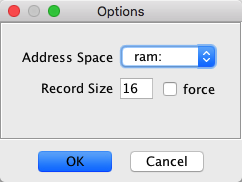
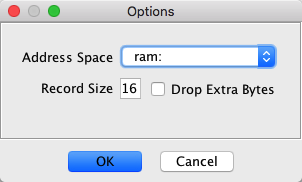
GT-2703: changed "force" option to "drop extra bytes" in intel hex options

diff --git a/Ghidra/Features/Base/src/main/help/help/topics/ExporterPlugin/exporter.htm b/Ghidra/Features/Base/src/main/help/help/topics/ExporterPlugin/exporter.htm
@@ -308,7 +308,7 @@
             address space.</LI>
             <LI><B>Record Size</B> - Specifies the size (in bytes) of each record in the 
             output file. The default 16.</LI>
-            <LI><B>Force</B> - If checked, this will ensure that <b>only</b> records matching
+            <LI><B>Drop Extra Bytes</B> - If checked, this will ensure that <b>only</b> records matching
             the record size will be output. eg: if you set the record size to 16 but there are 
             18 bytes selected, you will see only one line of 16 bytes in the output; the remaining 
             2 bytes will be dropped.</LI>

diff --git a/Ghidra/Features/Base/src/main/java/ghidra/app/util/exporter/IntelHexExporter.java b/Ghidra/Features/Base/src/main/java/ghidra/app/util/exporter/IntelHexExporter.java
@@ -39,8 +39,8 @@ import ghidra.util.task.TaskMonitor;
  * <p>
  * The output defaults to lines of 16-bytes but this is configurable using the
  * {@link #recordSizeOption} attribute. This allows users to select any record size
- * up to the max of 0xFF. Users may also choose to <code>force</code> a record size for every line
- * of output, which will only print out lines that match the max record size; any other 
+ * up to the max of 0xFF. Users may also choose to <code>Drop Extra Bytes</code>, which will
+ * cause only lines that match the max record size to be printed; any other 
  * bytes will be dropped. If this option is not set, every byte will be represented in the output.
  */
 public class IntelHexExporter extends Exporter {
@@ -100,8 +100,8 @@ public class IntelHexExporter extends Exporter {
 
 	/**
 	 * Option for exporting Intel Hex records that allows users to specify a record size for the
-	 * output. Users may also optionally specify a <code>force</code> option that will only output
-	 * lines that match this maximum size.
+	 * output. Users may also optionally select the <code>Drop Extra Bytes</code> option that 
+	 * will cause only those records that match the maximum size to be output to the file.
 	 * 
 	 * @see RecordSizeComponent
 	 */
@@ -140,8 +140,8 @@ public class IntelHexExporter extends Exporter {
 			return Integer.class;
 		}
 
-		public boolean getForce() {
-			return comp.getForce();
+		public boolean dropExtraBytes() {
+			return comp.dropExtraBytes();
 		}
 	}
 
@@ -151,28 +151,28 @@ public class IntelHexExporter extends Exporter {
 	 * <ul>
 	 * <li><code>input</code>: a {@link HintTextField} for entering numeric digits; these 
 	 * represent the record size for each line of output</li>
-	 * <li>forceCb: a {@link JCheckBox} for specifying the <code>force</code> setting; this
-	 * enforces that every line in the output matches the specified record size</li>
+	 * <li>dropCb: a {@link JCheckBox} for specifying a setting that enforces that every line in 
+	 * the output matches the specified record size</li>
 	 * </ul>
 	 * 
-	 * Note: If the <code>force</code> option is set, any bytes that are left over after outputting
-	 * all lines that match the record size will be dropped on the floor.
+	 * Note: If the <code>Drop Extra Bytes</code> option is set, any bytes that are left over 
+	 * after outputting all lines that match the record size will be omitted from the output.
 	 */
 	private class RecordSizeComponent extends JPanel {
 
 		private HintTextField input;
-		private JCheckBox forceCb;
+		private JCheckBox dropCb;
 
 		public RecordSizeComponent(int recordSize) {
 			setLayout(new BorderLayout());
 			
 			input = new HintTextField(String.valueOf(recordSize), false, new BoundedIntegerVerifier());
-			forceCb = new JCheckBox("force");
+			dropCb = new JCheckBox("Drop Extra Bytes");
 			
 			input.setText(String.valueOf(recordSize));
 			
 			add(input, BorderLayout.CENTER);
-			add(forceCb, BorderLayout.EAST);
+			add(dropCb, BorderLayout.EAST);
 		}
 
 		public int getValue() {
@@ -184,8 +184,8 @@ public class IntelHexExporter extends Exporter {
 			return Integer.valueOf(val);
 		}
 
-		public boolean getForce() {
-			return forceCb.isSelected();
+		public boolean dropExtraBytes() {
+			return dropCb.isSelected();
 		}
 	}
 
@@ -276,9 +276,9 @@ public class IntelHexExporter extends Exporter {
 			AddressSetView addrSetView, TaskMonitor monitor) throws MemoryAccessException {
 
 		int size = (int) recordSizeOption.getValue();
-		boolean forceSize = recordSizeOption.getForce();
+		boolean dropBytes = recordSizeOption.dropExtraBytes();
 
-		IntelHexRecordWriter writer = new IntelHexRecordWriter(size, forceSize);
+		IntelHexRecordWriter writer = new IntelHexRecordWriter(size, dropBytes);
 
 		AddressSet set = new AddressSet(addrSetView);
 

diff --git a/Ghidra/Features/Base/src/main/java/ghidra/app/util/opinion/IntelHexRecordWriter.java b/Ghidra/Features/Base/src/main/java/ghidra/app/util/opinion/IntelHexRecordWriter.java
@@ -22,7 +22,7 @@ import ghidra.program.model.address.*;
 public class IntelHexRecordWriter {
 
     private final int maxBytesPerLine;
-	private final boolean forceSize;
+	private final boolean dropExtraBytes;
 
     private Address startAddress = null;
     private Long oldSegment = null;
@@ -36,15 +36,15 @@ public class IntelHexRecordWriter {
 	 * Constructor
 	 * 
 	 * @param maxBytesPerLine the maximum number of bytes to write per line in the hex output
-	 * @param forceSize if true, only lines matching {@link #maxBytesPerLine} will be output; 
+	 * @param dropExtraBytes if true, only lines matching {@link #maxBytesPerLine} will be output; 
 	 * remaining bytes will be left out
 	 */
-	public IntelHexRecordWriter(int maxBytesPerLine, boolean forceSize) {
+	public IntelHexRecordWriter(int maxBytesPerLine, boolean dropExtraBytes) {
         if (maxBytesPerLine > IntelHexRecord.MAX_RECORD_LENGTH) {
             throw new IllegalArgumentException("maxBytesPerLine > IntelHexRecord.MAX_RECORD_LENGTH");
         }
         this.maxBytesPerLine = maxBytesPerLine;
-		this.forceSize = forceSize;
+		this.dropExtraBytes = dropExtraBytes;
     }
 
     public void addByte(Address address, byte b) {
@@ -129,8 +129,9 @@ public class IntelHexRecordWriter {
     public List<IntelHexRecord> finish(Address entryPoint) {
 
 		// Before finalizing things, write out any remaining bytes that haven't yet been written, if
-		// the user has specified to do so via the force option (false = write out everything).
-		if (bytes.size() > 0 && !forceSize) {
+		// the user has specified to do so via the drop extra bytes option (false = 
+    	// write out everything).
+		if (bytes.size() > 0 && !dropExtraBytes) {
 			emitData();
 		}
 
